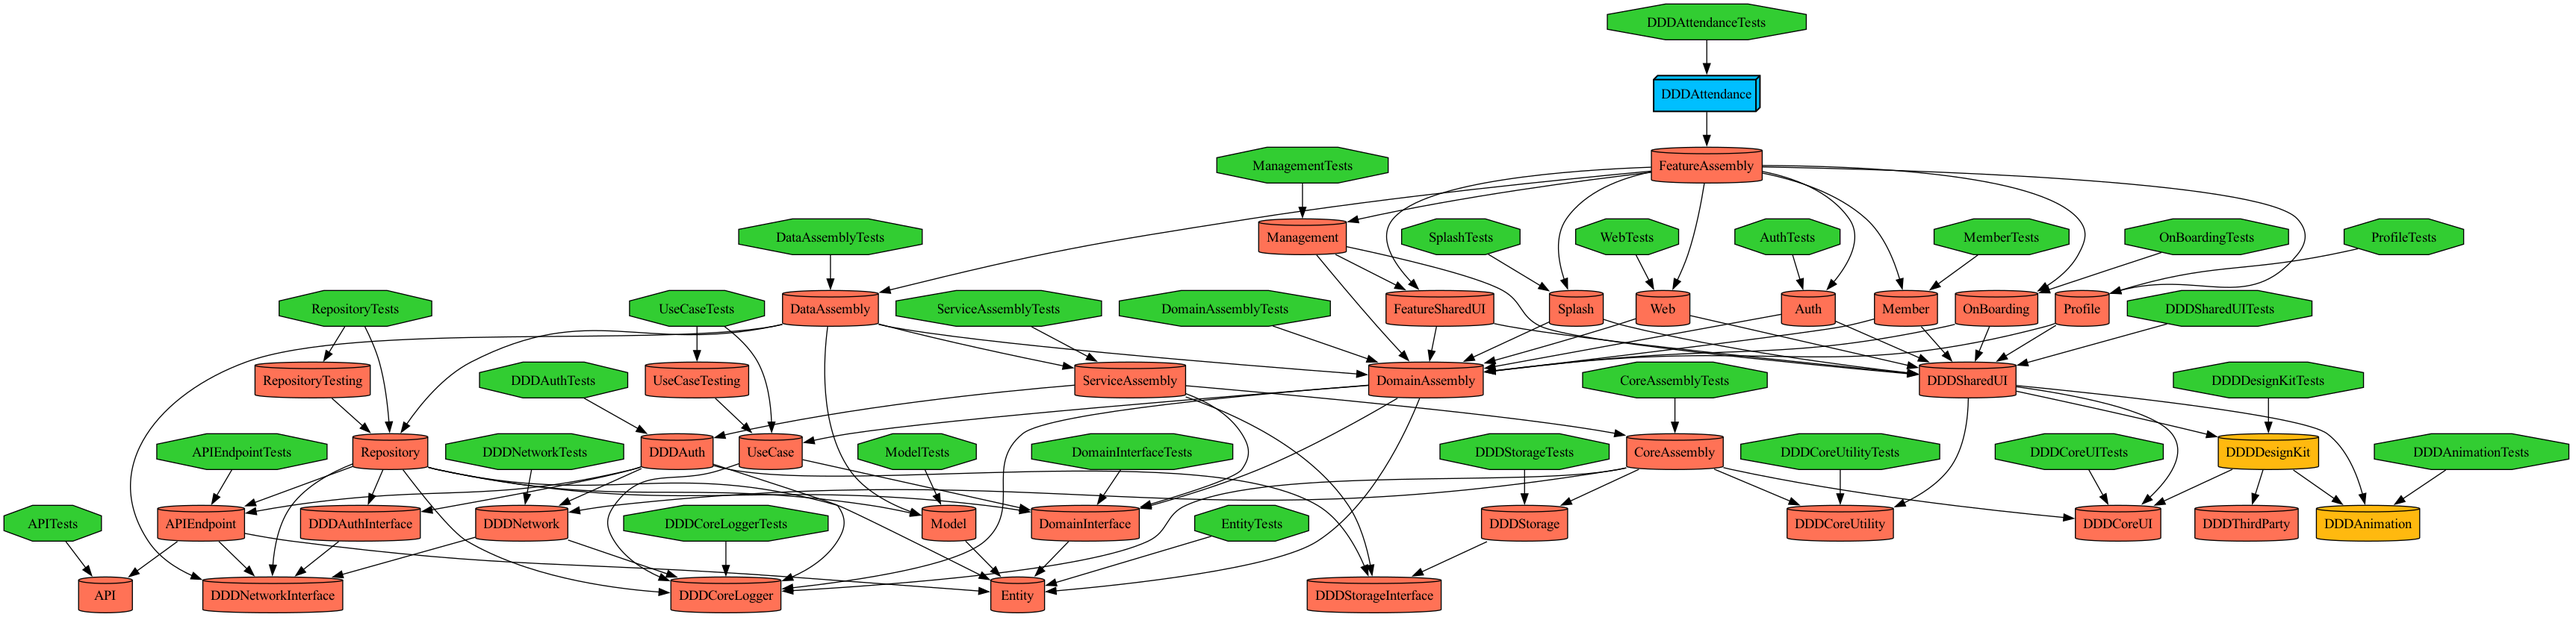
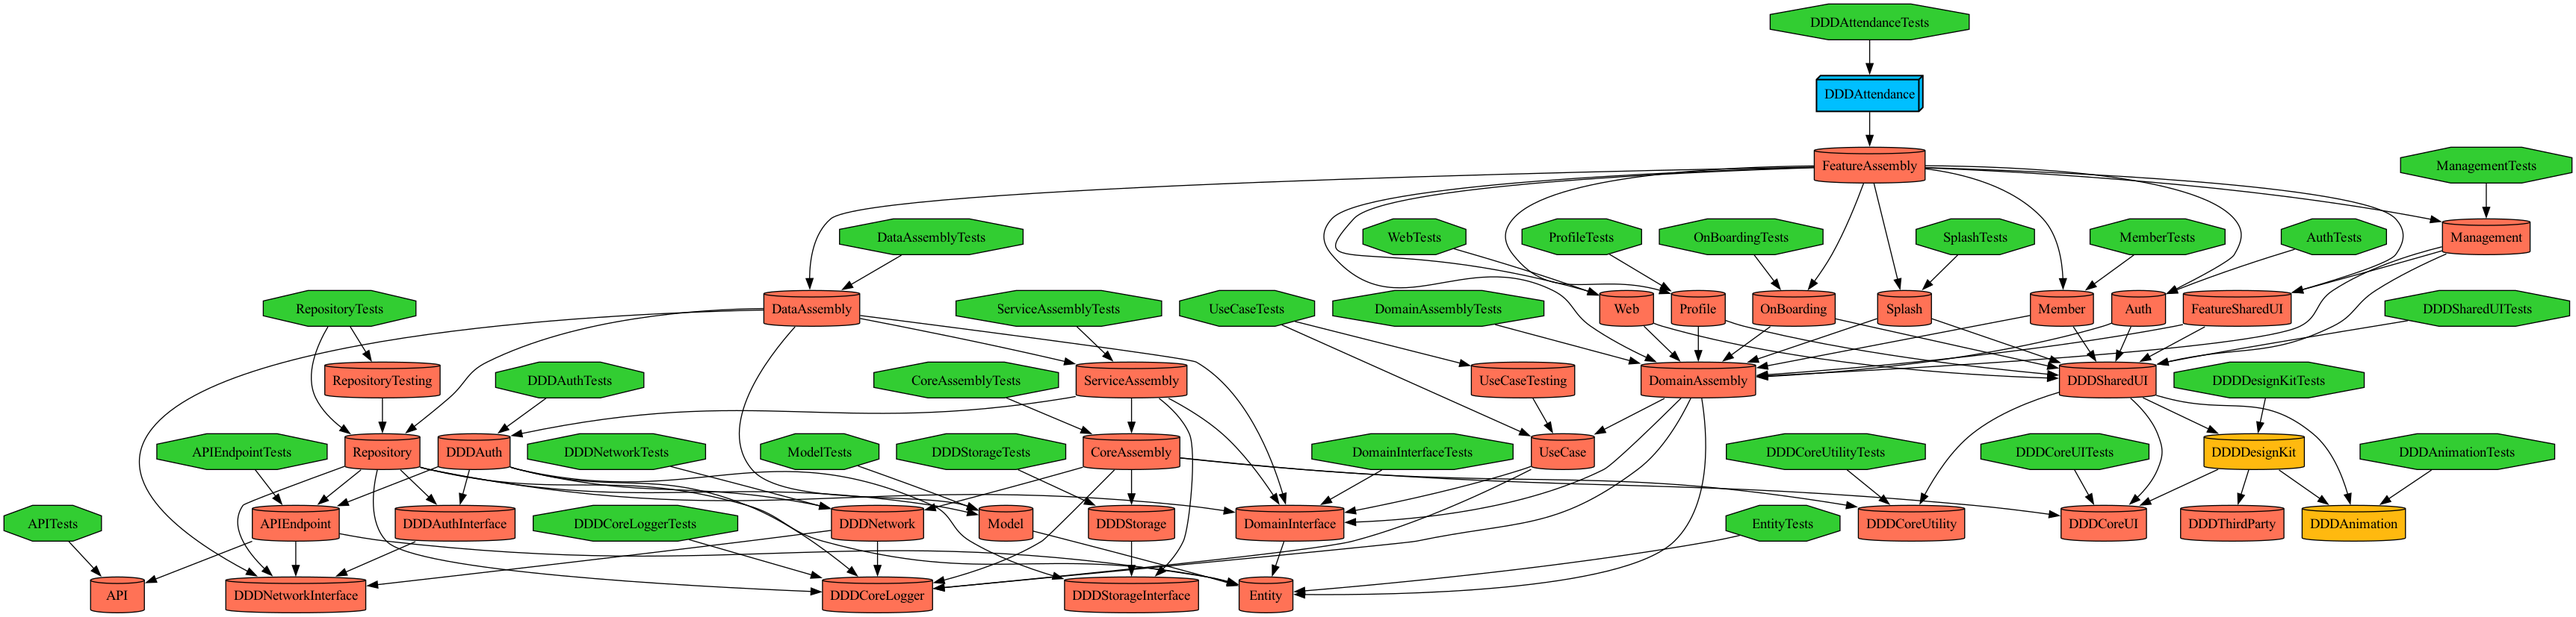
✨[feat]: 나머지 Feature 6개에 Demo 앱을 추가한다
Auth·Management·Member·OnBoarding·Profile·Web 각각에 단독 실행 앱을 둔다.
앱 전체를 빌드하지 않고 화면 하나를 시뮬레이터에서 확인하고,
tuist share로 Previews에 올려 링크로 넘길 수 있다.

각 Demo는 해당 피처의 루트 화면을 띄운다.
  Auth        LoginView
  Management  VoteView
  Member      MemberMainView
  OnBoarding  SelectTeamView
  Profile     ProfileView
  Web         WebView

의존성은 live 그대로 둔다. 네트워크가 없으면 에러·로딩 상태가 보이지만
Demo의 목적은 화면 레이아웃과 컴포넌트 확인이다. 목을 끼우려면 각 피처의
Testing 모듈이 필요하고, 그건 Interface가 있어야 의미를 갖는다(설계 문서 참고).

Interface는 만들지 않는다. Splash 파일럿에서 확인했듯 현재 App이 피처를
구현째로 조립하는 구조에서는 Interface가 끊는 엣지가 0이다.

검증
- tuist generate 성공, 7개 피처 모두 Demo 타깃 생성
- 6개 스킴 모두 빌드 성공
- 직전 전체 스위트 435개 통과 / 실패 0 / 순환 0 / segv 0

diff --git a/Projects/Feature/OnBoarding/Demo/Sources/OnBoardingDemoApp.swift b/Projects/Feature/OnBoarding/Demo/Sources/OnBoardingDemoApp.swift
@@ -1,0 +1,32 @@
+//
+//  OnBoardingDemoApp.swift
+//  OnBoardingDemo
+//
+//  앱 전체를 빌드하지 않고 OnBoarding 화면만 확인하기 위한 단독 실행 앱.
+//  의존성은 live 그대로라 네트워크가 없으면 에러·로딩 상태가 보인다.
+//  화면 레이아웃과 컴포넌트 확인이 목적이다.
+//
+
+import ComposableArchitecture
+import DDDDesignKit
+import OnBoarding
+import SwiftUI
+
+@main
+struct OnBoardingDemoApp: App {
+  init() {
+    // 앱과 동일하게 런타임에 폰트를 등록한다.
+    PretendardFontFamily.registerFonts()
+  }
+
+  var body: some Scene {
+    WindowGroup {
+      SelectTeamView(
+        store: Store(initialState: SelectTeam.State()) {
+          SelectTeam()
+        },
+        backAction: {}
+      )
+    }
+  }
+}

diff --git a/Projects/Feature/Profile/Demo/Sources/ProfileDemoApp.swift b/Projects/Feature/Profile/Demo/Sources/ProfileDemoApp.swift
@@ -1,0 +1,32 @@
+//
+//  ProfileDemoApp.swift
+//  ProfileDemo
+//
+//  앱 전체를 빌드하지 않고 Profile 화면만 확인하기 위한 단독 실행 앱.
+//  의존성은 live 그대로라 네트워크가 없으면 에러·로딩 상태가 보인다.
+//  화면 레이아웃과 컴포넌트 확인이 목적이다.
+//
+
+import ComposableArchitecture
+import DDDDesignKit
+import Profile
+import SwiftUI
+
+@main
+struct ProfileDemoApp: App {
+  init() {
+    // 앱과 동일하게 런타임에 폰트를 등록한다.
+    PretendardFontFamily.registerFonts()
+  }
+
+  var body: some Scene {
+    WindowGroup {
+      ProfileView(
+        store: Store(initialState: ProfileReducer.State()) {
+          ProfileReducer()
+        },
+        backAction: {}
+      )
+    }
+  }
+}

diff --git a/Projects/Feature/Management/Demo/Sources/ManagementDemoApp.swift b/Projects/Feature/Management/Demo/Sources/ManagementDemoApp.swift
@@ -1,0 +1,31 @@
+//
+//  ManagementDemoApp.swift
+//  ManagementDemo
+//
+//  앱 전체를 빌드하지 않고 Management 화면만 확인하기 위한 단독 실행 앱.
+//  의존성은 live 그대로라 네트워크가 없으면 에러·로딩 상태가 보인다.
+//  화면 레이아웃과 컴포넌트 확인이 목적이다.
+//
+
+import ComposableArchitecture
+import DDDDesignKit
+import Management
+import SwiftUI
+
+@main
+struct ManagementDemoApp: App {
+  init() {
+    // 앱과 동일하게 런타임에 폰트를 등록한다.
+    PretendardFontFamily.registerFonts()
+  }
+
+  var body: some Scene {
+    WindowGroup {
+      VoteView(
+        store: Store(initialState: VoteFeature.State()) {
+          VoteFeature()
+        }
+      )
+    }
+  }
+}

diff --git a/Projects/Feature/Web/Demo/Sources/WebDemoApp.swift b/Projects/Feature/Web/Demo/Sources/WebDemoApp.swift
@@ -1,0 +1,31 @@
+//
+//  WebDemoApp.swift
+//  WebDemo
+//
+//  앱 전체를 빌드하지 않고 Web 화면만 확인하기 위한 단독 실행 앱.
+//  의존성은 live 그대로라 네트워크가 없으면 에러·로딩 상태가 보인다.
+//  화면 레이아웃과 컴포넌트 확인이 목적이다.
+//
+
+import ComposableArchitecture
+import DDDDesignKit
+import Web
+import SwiftUI
+
+@main
+struct WebDemoApp: App {
+  init() {
+    // 앱과 동일하게 런타임에 폰트를 등록한다.
+    PretendardFontFamily.registerFonts()
+  }
+
+  var body: some Scene {
+    WindowGroup {
+      WebView(
+        store: Store(initialState: WebReducer.State(url: "https://www.apple.com")) {
+          WebReducer()
+        }
+      )
+    }
+  }
+}

diff --git a/Projects/Feature/Member/Demo/Sources/MemberDemoApp.swift b/Projects/Feature/Member/Demo/Sources/MemberDemoApp.swift
@@ -1,0 +1,31 @@
+//
+//  MemberDemoApp.swift
+//  MemberDemo
+//
+//  앱 전체를 빌드하지 않고 Member 화면만 확인하기 위한 단독 실행 앱.
+//  의존성은 live 그대로라 네트워크가 없으면 에러·로딩 상태가 보인다.
+//  화면 레이아웃과 컴포넌트 확인이 목적이다.
+//
+
+import ComposableArchitecture
+import DDDDesignKit
+import Member
+import SwiftUI
+
+@main
+struct MemberDemoApp: App {
+  init() {
+    // 앱과 동일하게 런타임에 폰트를 등록한다.
+    PretendardFontFamily.registerFonts()
+  }
+
+  var body: some Scene {
+    WindowGroup {
+      MemberMainView(
+        store: Store(initialState: MemberMain.State()) {
+          MemberMain()
+        }
+      )
+    }
+  }
+}

diff --git a/Projects/Feature/Auth/Demo/Sources/AuthDemoApp.swift b/Projects/Feature/Auth/Demo/Sources/AuthDemoApp.swift
@@ -1,0 +1,31 @@
+//
+//  AuthDemoApp.swift
+//  AuthDemo
+//
+//  앱 전체를 빌드하지 않고 Auth 화면만 확인하기 위한 단독 실행 앱.
+//  의존성은 live 그대로라 네트워크가 없으면 에러·로딩 상태가 보인다.
+//  화면 레이아웃과 컴포넌트 확인이 목적이다.
+//
+
+import ComposableArchitecture
+import DDDDesignKit
+import Auth
+import SwiftUI
+
+@main
+struct AuthDemoApp: App {
+  init() {
+    // 앱과 동일하게 런타임에 폰트를 등록한다.
+    PretendardFontFamily.registerFonts()
+  }
+
+  var body: some Scene {
+    WindowGroup {
+      LoginView(
+        store: Store(initialState: Login.State()) {
+          Login()
+        }
+      )
+    }
+  }
+}

diff --git a/Projects/Feature/Auth/Project.swift b/Projects/Feature/Auth/Project.swift
@@ -14,5 +14,6 @@ let project = Project.makeModule(
     .domainAssembly
   ],
   sources: ["Sources/**"],
-  hasTests: true
+  hasTests: true,
+  hasDemo: true
 )

diff --git a/Projects/Feature/Management/Project.swift b/Projects/Feature/Management/Project.swift
@@ -15,5 +15,6 @@ let project = Project.makeModule(
     .domainAssembly
   ],
   sources: ["Sources/**"],
-  hasTests: true
+  hasTests: true,
+  hasDemo: true
 )

diff --git a/Projects/Feature/Member/Project.swift b/Projects/Feature/Member/Project.swift
@@ -14,5 +14,6 @@ let project = Project.makeModule(
     .domainAssembly
   ],
   sources: ["Sources/**"],
-  hasTests: true
+  hasTests: true,
+  hasDemo: true
 )

diff --git a/Projects/Feature/OnBoarding/Project.swift b/Projects/Feature/OnBoarding/Project.swift
@@ -14,5 +14,6 @@ let project = Project.makeModule(
     .domainAssembly
   ],
   sources: ["Sources/**"],
-  hasTests: true
+  hasTests: true,
+  hasDemo: true
 )

diff --git a/Projects/Feature/Profile/Project.swift b/Projects/Feature/Profile/Project.swift
@@ -14,5 +14,6 @@ let project = Project.makeModule(
     .domainAssembly
   ],
   sources: ["Sources/**"],
-  hasTests: true
+  hasTests: true,
+  hasDemo: true
 )

diff --git a/Projects/Feature/Web/Project.swift b/Projects/Feature/Web/Project.swift
@@ -15,5 +15,6 @@ let project = Project.makeModule(
     .domainAssembly
   ],
   sources: ["Sources/**"],
-  hasTests: true
+  hasTests: true,
+  hasDemo: true
 )
